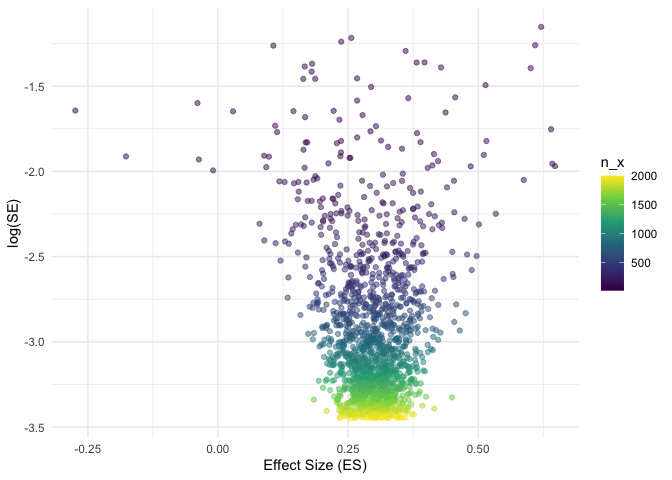
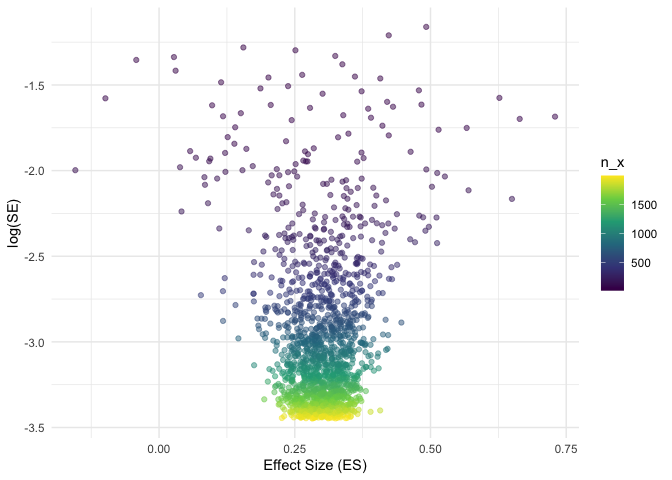
fix plot size README

diff --git a/README.md b/README.md
@@ -46,14 +46,14 @@ sim <- sim_meta(min_obs = 20,
 
 head(sim)
 #> # A tibble: 6 × 10
-#>   study hedges_g     se  mean_x mean_y  sd_x  sd_y   n_x   n_y      vi
-#>   <int>    <dbl>  <dbl>   <dbl>  <dbl> <dbl> <dbl> <int> <int>   <dbl>
-#> 1     1    0.286 0.0381  0.0386  0.326 1.00  1.01   1391  1391 0.00145
-#> 2     2    0.272 0.0426 -0.0317  0.242 1.01  1.00   1110  1110 0.00182
-#> 3     3    0.332 0.0435 -0.0222  0.308 1.00  0.981  1070  1070 0.00189
-#> 4     4    0.334 0.0395 -0.0295  0.302 0.986 0.995  1302  1302 0.00156
-#> 5     5    0.338 0.0448  0.0132  0.357 1.01  1.03   1009  1009 0.00201
-#> 6     6    0.263 0.0447  0.0292  0.290 0.988 0.990  1009  1009 0.00200
+#>   study hedges_g     se   mean_x mean_y  sd_x  sd_y   n_x   n_y      vi
+#>   <int>    <dbl>  <dbl>    <dbl>  <dbl> <dbl> <dbl> <int> <int>   <dbl>
+#> 1     1    0.344 0.0436 -0.00709  0.329 0.974 0.979  1069  1069 0.00190
+#> 2     2    0.338 0.0367  0.00981  0.349 0.963 1.05   1508  1508 0.00135
+#> 3     3    0.511 0.103  -0.0803   0.451 1.01  1.07    195   195 0.0106 
+#> 4     4    0.290 0.0401  0.0438   0.333 0.983 1.01   1257  1257 0.00161
+#> 5     5    0.309 0.0631 -0.0278   0.287 1.05  0.991   509   509 0.00398
+#> 6     6    0.249 0.0442  0.0173   0.272 1.04  1.00   1032  1032 0.00195
 ```
 
 # Effect size and standard error
@@ -80,7 +80,7 @@ ggplot(sim, aes(x = hedges_g, y = log(se), color = n_x))+
   scale_color_viridis_c()
 ```
 
-<img src="man/figures/README-unnamed-chunk-3-1.png" width="80%" />
+<img src="man/figures/README-unnamed-chunk-3-1.png" width="100%" />
 
 # Run Meta-Analysis on simulated data
 
@@ -106,29 +106,29 @@ summary(metaanalysis)
 #> Review:     Meta-Analysis fixed-effect
 #> 
 #>       SMD           95%-CI %W(common)
-#> 1  0.2856 [0.2109; 0.3603]       13.9
-#> 2  0.2717 [0.1881; 0.3552]       11.1
-#> 3  0.3322 [0.2469; 0.4175]       10.6
-#> 4  0.3343 [0.2570; 0.4117]       13.0
-#> 5  0.3376 [0.2498; 0.4255]       10.0
-#> 6  0.2634 [0.1758; 0.3510]       10.1
-#> 7  0.3300 [0.2607; 0.3992]       16.2
-#> 8  0.3367 [0.2198; 0.4537]        5.7
-#> 9  0.2582 [0.1417; 0.3747]        5.7
-#> 10 0.3520 [0.2079; 0.4960]        3.7
+#> 1  0.3443 [0.2589; 0.4297]        9.8
+#> 2  0.3377 [0.2658; 0.4096]       13.9
+#> 3  0.5111 [0.3094; 0.7128]        1.8
+#> 4  0.2896 [0.2110; 0.3682]       11.6
+#> 5  0.3086 [0.1850; 0.4322]        4.7
+#> 6  0.2487 [0.1620; 0.3353]        9.6
+#> 7  0.2819 [0.2142; 0.3497]       15.6
+#> 8  0.2188 [0.1030; 0.3347]        5.3
+#> 9  0.3389 [0.2750; 0.4027]       17.6
+#> 10 0.2473 [0.1629; 0.3318]       10.1
 #> 
 #> Number of studies: k = 10
 #> 
 #>                        SMD           95%-CI     z  p-value
-#> Common effect model 0.3093 [0.2815; 0.3371] 21.77 < 0.0001
+#> Common effect model 0.3020 [0.2752; 0.3288] 22.09 < 0.0001
 #> 
 #> Quantifying heterogeneity:
-#>  tau^2 = 0 [0.0000; 0.0018]; tau = 0 [0.0000; 0.0424]
-#>  I^2 = 0.0% [0.0%; 62.4%]; H = 1.00 [1.00; 1.63]
+#>  tau^2 = 0.0002 [0.0000; 0.0151]; tau = 0.0156 [0.0000; 0.1230]
+#>  I^2 = 29.6% [0.0%; 66.3%]; H = 1.19 [1.00; 1.72]
 #> 
 #> Test of heterogeneity:
-#>     Q d.f. p-value
-#>  4.93    9  0.8404
+#>      Q d.f. p-value
+#>  12.79    9  0.1725
 #> 
 #> Details on meta-analytical method:
 #> - Inverse variance method
@@ -139,10 +139,14 @@ summary(metaanalysis)
 # Forest plot
 
 ``` r
-forest(metaanalysis)
+metafor::forest(metaanalysis,
+             sortvar = TE,
+             prediction = TRUE, 
+             print.tau2 = TRUE,
+             leftlabs = c("Study", "g", "SE"))
 ```
 
-<img src="man/figures/README-unnamed-chunk-5-1.png" width="80%" /> \#
+<img src="man/figures/README-unnamed-chunk-5-1.png" width="100%" /> \#
 Simulate Random-Effects model
 
 ``` r
@@ -156,14 +160,14 @@ sim <- sim_meta(min_obs = 20,
 
 head(sim)
 #> # A tibble: 6 × 10
-#>   study hedges_g     se  mean_x mean_y  sd_x  sd_y   n_x   n_y      vi
-#>   <int>    <dbl>  <dbl>   <dbl>  <dbl> <dbl> <dbl> <int> <int>   <dbl>
-#> 1     1    0.711 0.0455 -0.0109  0.691 0.999 0.975  1028  1028 0.00207
-#> 2     2    0.689 0.0827  0.0370  0.738 1.04  0.998   310   310 0.00683
-#> 3     3    0.590 0.0380  0.0977  0.692 1.02  0.992  1445  1445 0.00144
-#> 4     4    0.624 0.0343  0.0152  0.644 1.02  0.998  1786  1786 0.00117
-#> 5     5    0.832 0.0568 -0.0323  0.808 1.01  1.00    673   673 0.00323
-#> 6     6    0.769 0.0372 -0.0618  0.708 0.999 1.00   1555  1555 0.00138
+#>   study hedges_g     se   mean_x mean_y  sd_x  sd_y   n_x   n_y      vi
+#>   <int>    <dbl>  <dbl>    <dbl>  <dbl> <dbl> <dbl> <int> <int>   <dbl>
+#> 1     1    0.704 0.0347  0.0320   0.734 0.971 1.02   1760  1760 0.00121
+#> 2     2    0.627 0.0357 -0.00514  0.632 1.00  1.03   1649  1649 0.00127
+#> 3     3    0.666 0.0399  0.00806  0.666 0.991 0.984  1324  1324 0.00159
+#> 4     4    0.599 0.0362  0.0108   0.608 0.985 1.01   1592  1592 0.00131
+#> 5     5    0.693 0.0969  0.0329   0.755 1.05  1.03    226   226 0.00938
+#> 6     6    0.708 0.0838  0.0131   0.735 1.01  1.02    303   303 0.00701
 ```
 
 Run Random-Effects Meta-Analysis
@@ -198,29 +202,29 @@ summary(metaanalysis)
 #> Review:     Meta-Analysis fixed-effect
 #> 
 #>       SMD           95%-CI %W(random)
-#> 1  0.7112 [0.6220; 0.8003]       10.1
-#> 2  0.6885 [0.5265; 0.8506]        6.1
-#> 3  0.5904 [0.5159; 0.6649]       11.0
-#> 4  0.6243 [0.5571; 0.6914]       11.5
-#> 5  0.8316 [0.7202; 0.9430]        8.7
-#> 6  0.7692 [0.6964; 0.8421]       11.1
-#> 7  0.6372 [0.5654; 0.7089]       11.2
-#> 8  0.6572 [0.5817; 0.7327]       10.9
-#> 9  0.5666 [0.4833; 0.6498]       10.4
-#> 10 0.7698 [0.6642; 0.8754]        9.0
+#> 1  0.7037 [0.6356; 0.7718]       13.9
+#> 2  0.6266 [0.5567; 0.6965]       13.7
+#> 3  0.6659 [0.5876; 0.7441]       12.8
+#> 4  0.5988 [0.5278; 0.6698]       13.5
+#> 5  0.6929 [0.5030; 0.8827]        5.0
+#> 6  0.7079 [0.5438; 0.8721]        6.2
+#> 7  0.7250 [0.6153; 0.8348]        9.8
+#> 8  0.7678 [0.6891; 0.8465]       12.7
+#> 9  0.7661 [0.3789; 1.1533]        1.5
+#> 10 0.8610 [0.7642; 0.9578]       10.9
 #> 
 #> Number of studies: k = 10
 #> 
 #>                              SMD           95%-CI     t  p-value
-#> Random effects model (HK) 0.6794 [0.6184; 0.7404] 25.18 < 0.0001
+#> Random effects model (HK) 0.7023 [0.6447; 0.7598] 27.61 < 0.0001
 #> 
 #> Quantifying heterogeneity:
-#>  tau^2 = 0.0051 [0.0013; 0.0223]; tau = 0.0717 [0.0366; 0.1493]
-#>  I^2 = 72.3% [47.6%; 85.4%]; H = 1.90 [1.38; 2.62]
+#>  tau^2 = 0.0034 [0.0007; 0.0162]; tau = 0.0587 [0.0265; 0.1274]
+#>  I^2 = 65.8% [33.0%; 82.5%]; H = 1.71 [1.22; 2.39]
 #> 
 #> Test of heterogeneity:
 #>      Q d.f. p-value
-#>  32.52    9  0.0002
+#>  26.31    9  0.0018
 #> 
 #> Details on meta-analytical method:
 #> - Inverse variance method
@@ -232,4 +236,4 @@ summary(metaanalysis)
 metafor::forest(metaanalysis, header = TRUE)
 ```
 
-<img src="man/figures/README-unnamed-chunk-7-1.png" width="80%" />
+<img src="man/figures/README-unnamed-chunk-7-1.png" width="100%" />
